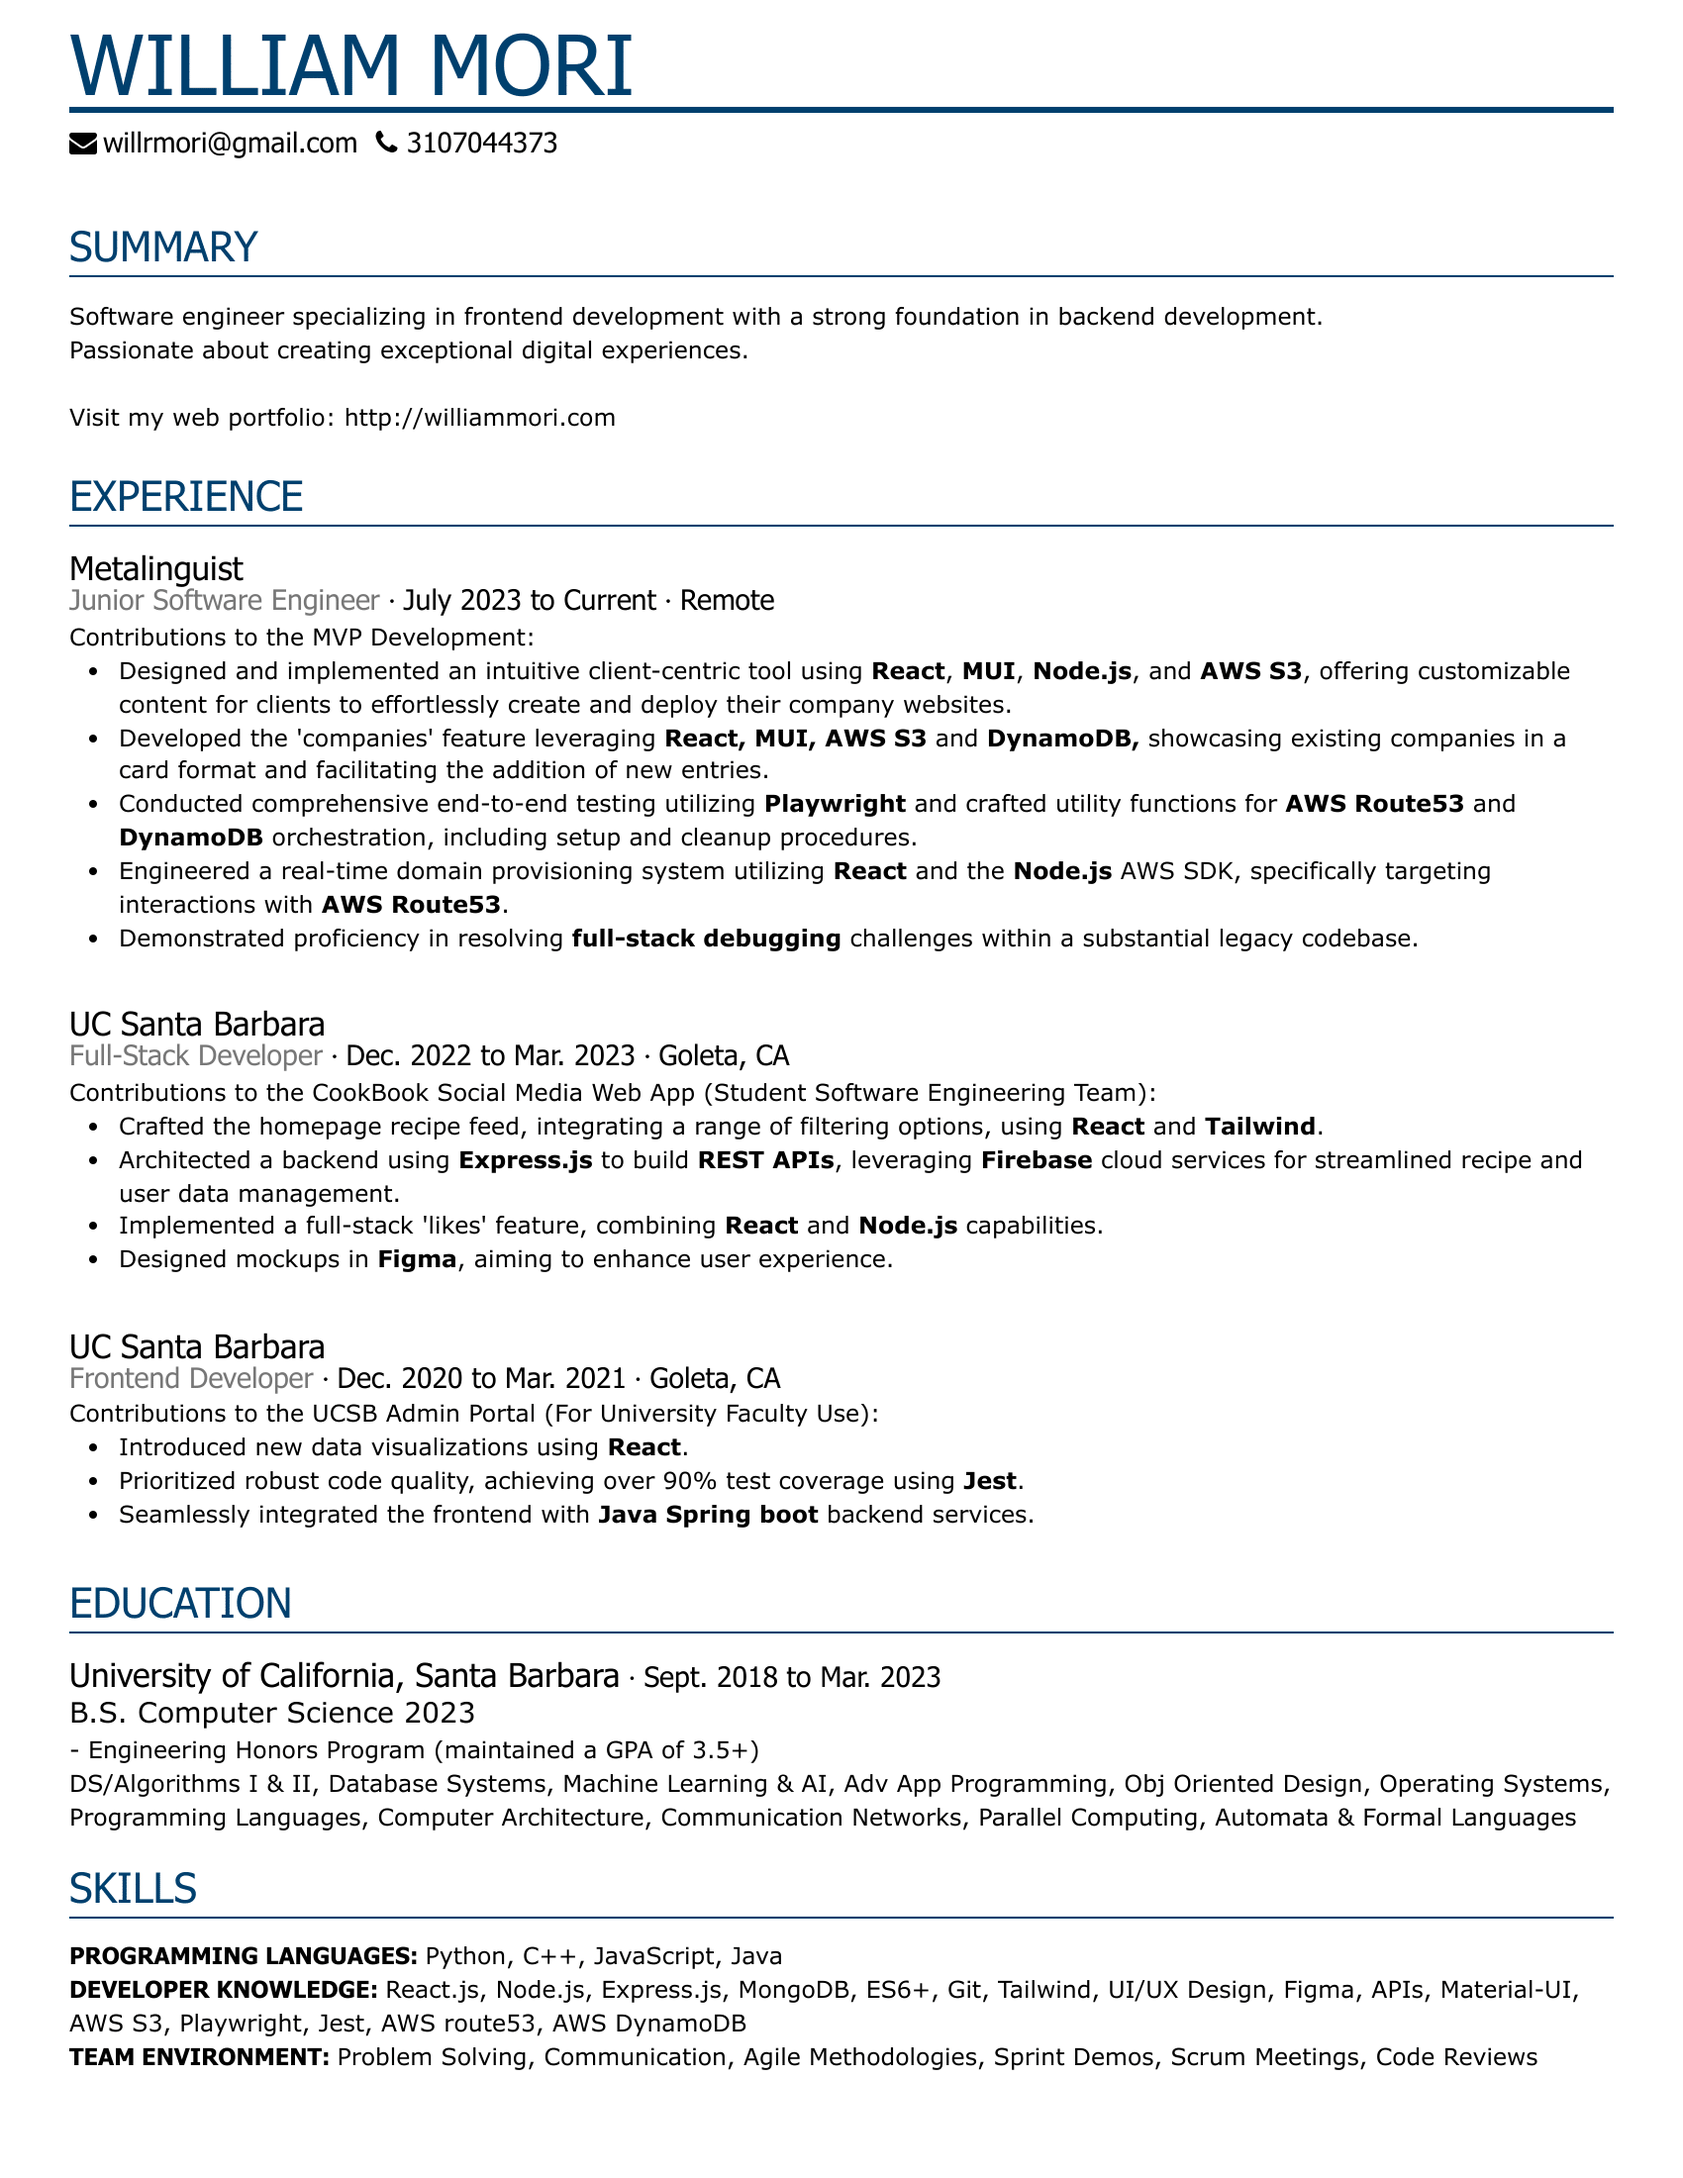
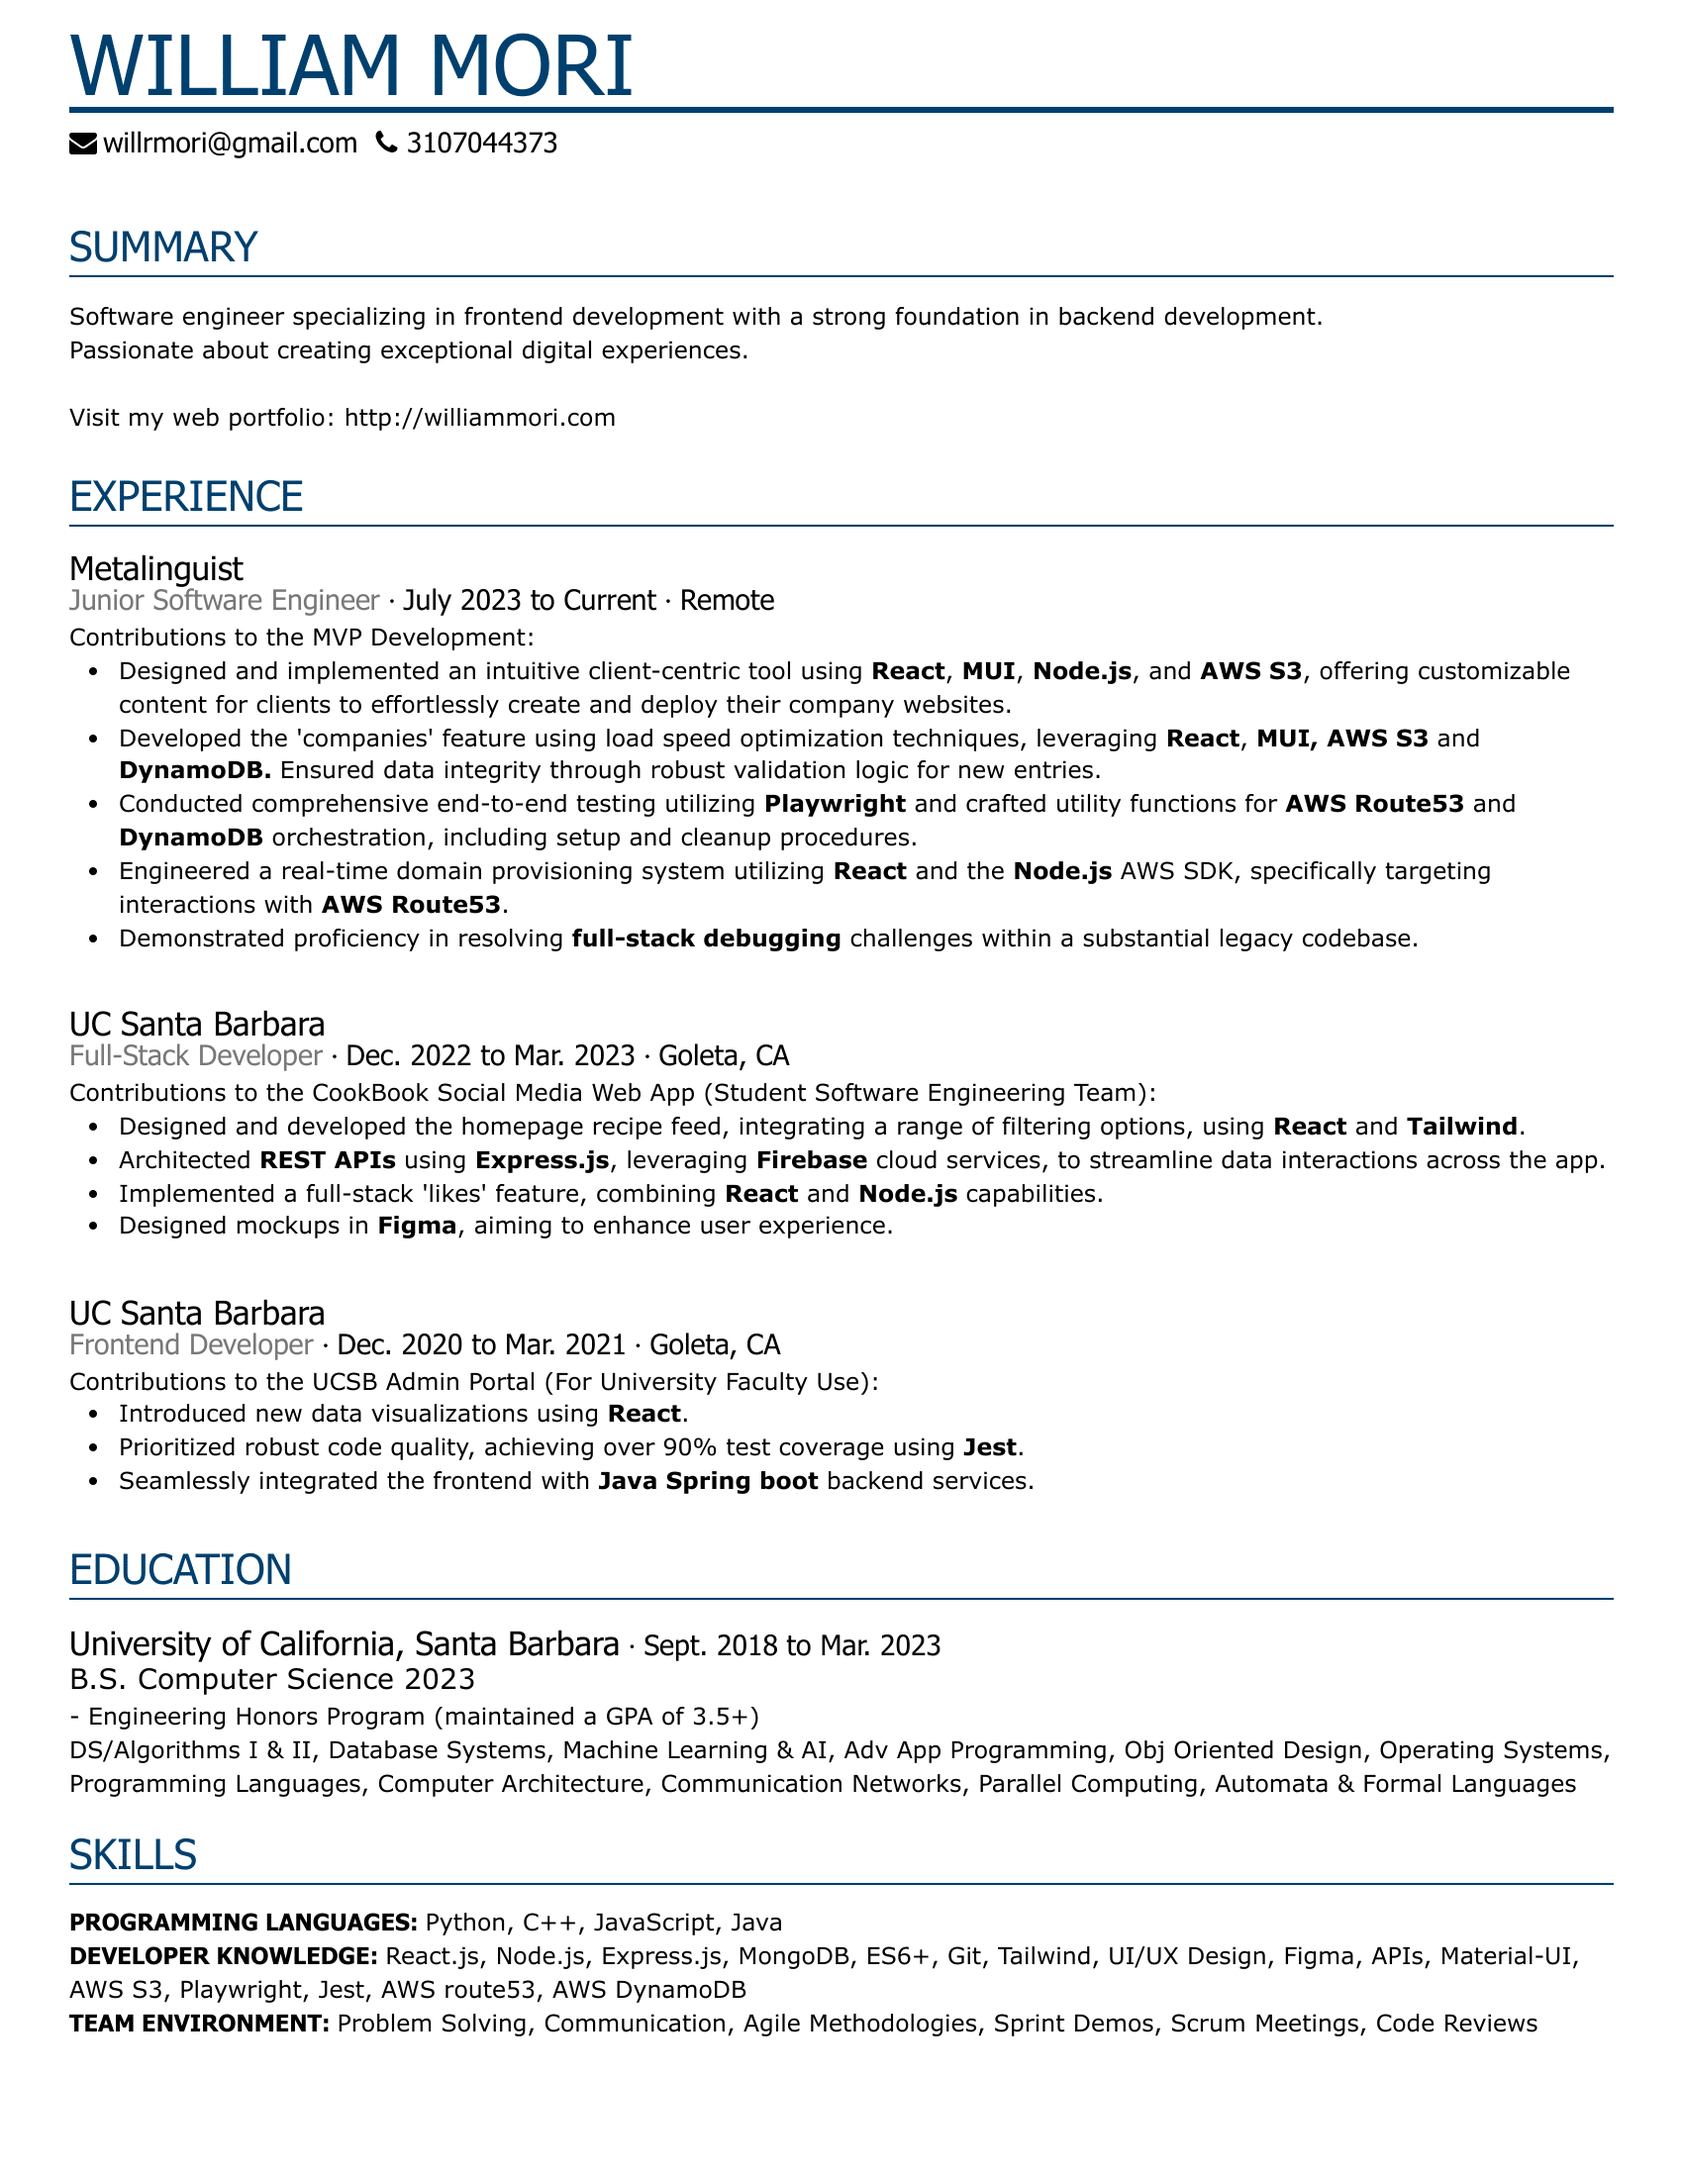
update contribution text, update resume

diff --git a/client/src/Content/ContributionText.js b/client/src/Content/ContributionText.js
@@ -5,35 +5,35 @@ export const ContributionText = {
     "Companies": {
         "header": "Metalinguist",
         "subHeader": "Companies Feature",
-        "details": "Develop a 'Companies' section within the Metalinguist portal. This feature will display companies in a card view format, enable admins to add new companies, ensure fast load speeds via optimization techniques, and integrate seamlessly with AWS S3 and DynamoDB.",
+        "details": "Developed the 'Companies' feature with techniques for load speed optimization. Showcased companies in a card format and streamlined the addition of new entries with robust validation logic, ensuring data integrity.",
         "tech_stack": ["React.js", "MUI", "Express.js", "S3", "DynamoDB"],
         "headerLink": "https://metalinguist.com"
     },
     "Playwright": {
         "header": "Metalinguist",
         "subHeader": "Testing Automation",
-        "details": "Establish and integrate the Playwright framework for comprehensive end-to-end testing. Develop a test suite for the Metalinguist Onboarding process and formulate cloud utility functions to manage AWS Route53 subdomain cleanup and DynamoDB data.",
+        "details": "Conducted comprehensive end-to-end testing using Playwright and crafted cloud utility functions for data setup and cleanup procedures. Implemented a test suite specifically for the Metalinguist Onboarding process.",
         "tech_stack": ["Playwright", "Route53", "DynamoDB", "Node.js"],
         "headerLink": "https://metalinguist.com"
     },
     "Provisioning": {
         "header": "Metalinguist",
         "subHeader": "Domain Provisioning",
-        "details": "Develop a full-stack solution for real-time tracking of new domain provisioning. Integrate a custom animated React loading bar that aligns with Route53 update status, leveraging the Node.js AWS SDK.",
+        "details": "Engineered a full-stack solution for real-time tracking of domain provisioning. Integrated a custom animated React loading bar to align with Route53 update status, leveraging the Node.js AWS SDK.",
         "tech_stack": ["React.js", "Route53", "Node.js", "Express.js"],
         "headerLink": "https://metalinguist.com"
     },
     "CookBook_Social": {
         "header": "CookBook Social",
         "subHeader": "Full-Stack Features",
-        "details": "Craft a homepage recipe feed featuring diverse filtering capabilities. Introduce a full-stack 'likes' feature. Develop backend REST APIs in Express.js, utilizing Firebase cloud services, to streamline recipe and user data interactions across the app.",
+        "details": "Designed and implemented a homepage recipe feed featuring diverse filtering capabilities. Introduced a full-stack 'likes' feature. Architected REST APIs in Express.js, utilizing Firebase cloud services, to streamline data interactions across the app.",
         "tech_stack": ["React.js", "Tailwind", "Node.js", "Express.js", "Firebase"],
         "headerLink": "https://cookbook-social.herokuapp.com/login"
     },
     "Tide_Together": {
         "header": "Tide Together",
         "subHeader": "Digital Design",
-        "details": "Design a digital prototype for our team's 'Tide Together' mobile social media app using Figma. Produce various mockups with an emphasis on user experience and efficient Human Computer Interaction.",
+        "details": "Designed a digital prototype for our team's 'Tide Together' mobile social media app using Figma. Produced various mockups with an emphasis on user experience and Human Computer Interaction.",
         "tech_stack": ["Figma", "UI/UX", "HCI"],
         "headerLink": "https://cs.ucsb.edu/education/courses/course-descriptions/human-computer-interaction"
     },

diff --git a/client/src/Pages/AboutMe.jsx b/client/src/Pages/AboutMe.jsx
@@ -90,7 +90,7 @@ const AboutMe = () => {
                             <Typography style={{ color: theme.palette.primary.textSecondary, marginBottom: '15px', textAlign: isMobileScreen ? 'center' : ''}}>
                                 Fast forward to today...
                             </Typography>
-                            <Typography variant='h6' style={{color: theme.palette.primary.textContrast, textAlign: isMobileScreen ? 'center' : ''}}>Software Engineer Intern
+                            <Typography variant='h6' style={{color: theme.palette.primary.textContrast, textAlign: isMobileScreen ? 'center' : ''}}>Junior Software Engineer
                             <span style={{color: theme.palette.primary.textPrimary}}> @ </span>
                             <a href={'https://metalinguist.com/'} target='_blank' className='underline-on-hover' 
                                 style={{color: theme.palette.primary.textPrimary, fontWeight: 'bold'}}>Metalinguist</a>
